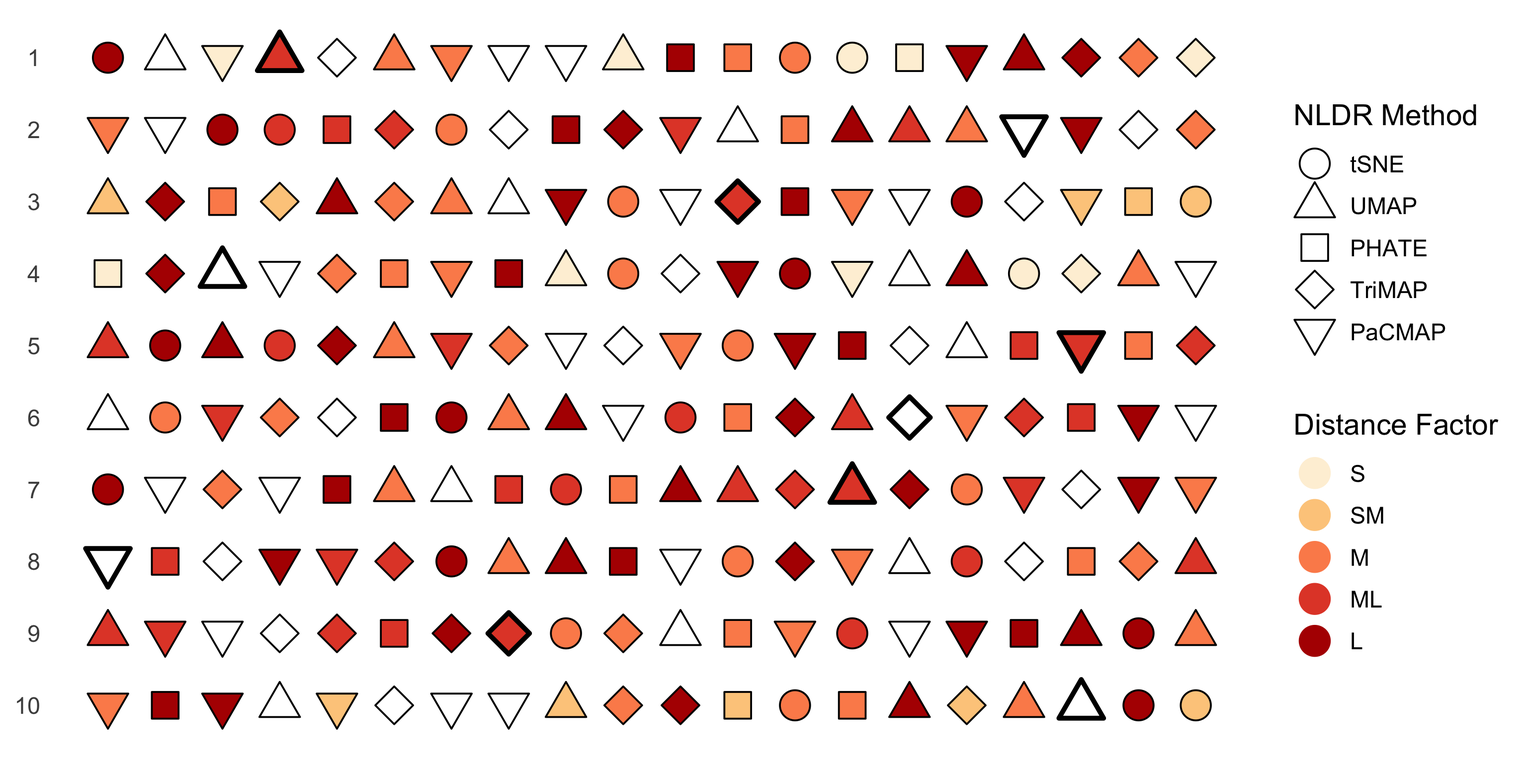
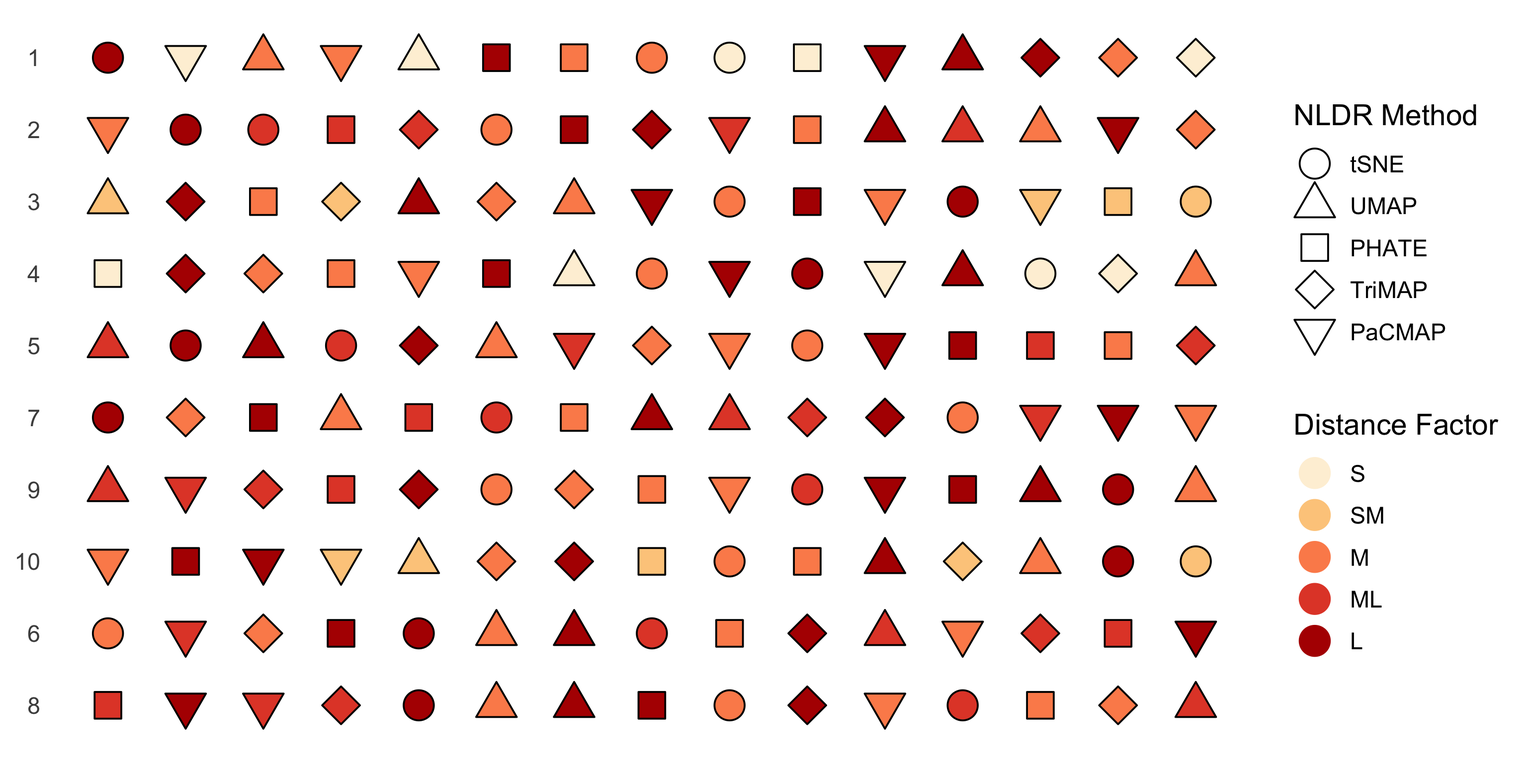
Updated the design only with the SAME

diff --git a/_book/chapters/05-chap5.html b/_book/chapters/05-chap5.html
@@ -302,7 +302,7 @@ window.Quarto = {
 <p>Nonlinear transformations allow for multiple shape-varying clusters to be represented in a single <span class="math inline">2\text{-}D</span> layout. In contrast, classical linear projection will often require multiple projections to show multiple clusters. <a href="#fig-nldr-layouts" class="quarto-xref">Figure&nbsp;<span>5.1</span></a> illustrates this: a1-a4 show linear projections revealing three well-separated clusters, one spherical, one ribbon-like and one like a star-shaped pyramid. The NLDR layout (left) is generated using tSNE has a mostly reasonable display of the three clusters in a single view, although it struggles with the star pyramid. It does place the clusters very close to each other which does not reflect the large separation in the high-dimensional space.</p>
 <div class="cell" data-layout-align="center">
 <div class="cell-output-display">
-<div id="fig-nldr-layouts" class="quarto-float quarto-figure quarto-figure-center anchored" alt="Multi-panel figure comparing a 2-D NLDR layout with multiple linear projections of the same 4-D data. The left panel shows a 2-D t-SNE layout with abstract horizontal and vertical axes representing embedding dimensions, each spanning a roughly symmetric range around zero. Points are colored or symbol-coded to indicate three underlying data structures. One group forms a compact, approximately spherical cluster. A second group forms a long, curved, ribbon-like band. A third group forms a star-shaped, pyramid-like structure with multiple arms radiating outward from a central region; in the tSNE layout, this structure appears split into several smaller, spatially separated point groups. The four right-hand panels (labeled a1–a4) show different 2-D linear projections of the same 4-D data, as produced by a tour. Each panel uses horizontal and vertical axes corresponding to different linear combinations of the original four variables, with numeric scales varying across projections but remaining continuous. In each projection, the same three data structures are visible: the spherical cluster appears compact, the curvilinear structure appears as a bent or elongated band whose orientation changes across projections, and the star-shaped pyramid appears as a single connected structure whose shape and orientation vary but remain coherent across all four views." data-fig-pos="!ht" data-fig-align="center">
+<div id="fig-nldr-layouts" class="quarto-float quarto-figure quarto-figure-center anchored" data-fig-align="center" data-fig-pos="!ht" alt="Multi-panel figure comparing a 2-D NLDR layout with multiple linear projections of the same 4-D data. The left panel shows a 2-D t-SNE layout with abstract horizontal and vertical axes representing embedding dimensions, each spanning a roughly symmetric range around zero. Points are colored or symbol-coded to indicate three underlying data structures. One group forms a compact, approximately spherical cluster. A second group forms a long, curved, ribbon-like band. A third group forms a star-shaped, pyramid-like structure with multiple arms radiating outward from a central region; in the tSNE layout, this structure appears split into several smaller, spatially separated point groups. The four right-hand panels (labeled a1–a4) show different 2-D linear projections of the same 4-D data, as produced by a tour. Each panel uses horizontal and vertical axes corresponding to different linear combinations of the original four variables, with numeric scales varying across projections but remaining continuous. In each projection, the same three data structures are visible: the spherical cluster appears compact, the curvilinear structure appears as a bent or elongated band whose orientation changes across projections, and the star-shaped pyramid appears as a single connected structure whose shape and orientation vary but remain coherent across all four views.">
 <figure class="quarto-float quarto-float-fig figure"><div aria-describedby="fig-nldr-layouts-caption-0ceaefa1-69ba-4598-a22c-09a6ac19f8ca">
 <img src="05-chap5_files/figure-html/fig-nldr-layouts-1.png" class="img-fluid quarto-figure quarto-figure-center figure-img" style="width:100.0%" data-fig-pos="!ht" alt="Multi-panel figure comparing a 2-D NLDR layout with multiple linear projections of the same 4-D data. The left panel shows a 2-D t-SNE layout with abstract horizontal and vertical axes representing embedding dimensions, each spanning a roughly symmetric range around zero. Points are colored or symbol-coded to indicate three underlying data structures. One group forms a compact, approximately spherical cluster. A second group forms a long, curved, ribbon-like band. A third group forms a star-shaped, pyramid-like structure with multiple arms radiating outward from a central region; in the tSNE layout, this structure appears split into several smaller, spatially separated point groups. The four right-hand panels (labeled a1–a4) show different 2-D linear projections of the same 4-D data, as produced by a tour. Each panel uses horizontal and vertical axes corresponding to different linear combinations of the original four variables, with numeric scales varying across projections but remaining continuous. In each projection, the same three data structures are visible: the spherical cluster appears compact, the curvilinear structure appears as a bent or elongated band whose orientation changes across projections, and the star-shaped pyramid appears as a single connected structure whose shape and orientation vary but remain coherent across all four views.">
 </div>
@@ -419,7 +419,7 @@ Figure&nbsp;5.2: Experiment design for ten subjects. Shapes represent NLDR metho
 <p>which captures the closest proximity between any two clusters.</p>
 <div class="cell" data-layout-align="center">
 <div class="cell-output-display">
-<div id="fig-dist-metrics" class="quarto-float quarto-figure quarto-figure-center anchored" alt="Two-panel figure showing the distribution of cluster separation metrics across categorical distance scale factors. Panel (a) displays a quasi-random scatter plot of the scaled between-to-within (BW) ratio. The horizontal axis lists five categorical distance scale factors—small (S), small–medium (SM), medium (M), medium–large (ML), and large (L) arranged from left to right. The vertical axis shows BW ratio values on a continuous numeric scale increasing upward. For each scale factor, multiple points are plotted with slight horizontal jitter, forming vertical bands that represent the distribution of BW ratios under that condition. The point clouds shift progressively upward from S to L, indicating larger BW ratios at higher distance scales. Panel (b) shows a similar quasi-random scatter plot for the exponential scaled minimum inter-cluster distance. The horizontal axis again displays the five distance scale factors (S to L), and the vertical axis shows minimum distance values on a continuous scale. Points are jittered horizontally within each category, producing vertical distributions whose central tendency increases from left to right." data-fig-align="center">
+<div id="fig-dist-metrics" class="quarto-float quarto-figure quarto-figure-center anchored" data-fig-align="center" alt="Two-panel figure showing the distribution of cluster separation metrics across categorical distance scale factors. Panel (a) displays a quasi-random scatter plot of the scaled between-to-within (BW) ratio. The horizontal axis lists five categorical distance scale factors—small (S), small–medium (SM), medium (M), medium–large (ML), and large (L) arranged from left to right. The vertical axis shows BW ratio values on a continuous numeric scale increasing upward. For each scale factor, multiple points are plotted with slight horizontal jitter, forming vertical bands that represent the distribution of BW ratios under that condition. The point clouds shift progressively upward from S to L, indicating larger BW ratios at higher distance scales. Panel (b) shows a similar quasi-random scatter plot for the exponential scaled minimum inter-cluster distance. The horizontal axis again displays the five distance scale factors (S to L), and the vertical axis shows minimum distance values on a continuous scale. Points are jittered horizontally within each category, producing vertical distributions whose central tendency increases from left to right.">
 <figure class="quarto-float quarto-float-fig figure"><div aria-describedby="fig-dist-metrics-caption-0ceaefa1-69ba-4598-a22c-09a6ac19f8ca">
 <img src="05-chap5_files/figure-html/fig-dist-metrics-1.png" class="img-fluid quarto-figure quarto-figure-center figure-img" style="width:100.0%" alt="Two-panel figure showing the distribution of cluster separation metrics across categorical distance scale factors. Panel (a) displays a quasi-random scatter plot of the scaled between-to-within (BW) ratio. The horizontal axis lists five categorical distance scale factors—small (S), small–medium (SM), medium (M), medium–large (ML), and large (L) arranged from left to right. The vertical axis shows BW ratio values on a continuous numeric scale increasing upward. For each scale factor, multiple points are plotted with slight horizontal jitter, forming vertical bands that represent the distribution of BW ratios under that condition. The point clouds shift progressively upward from S to L, indicating larger BW ratios at higher distance scales. Panel (b) shows a similar quasi-random scatter plot for the exponential scaled minimum inter-cluster distance. The horizontal axis again displays the five distance scale factors (S to L), and the vertical axis shows minimum distance values on a continuous scale. Points are jittered horizontally within each category, producing vertical distributions whose central tendency increases from left to right.">
 </div>
@@ -512,7 +512,7 @@ Table&nbsp;5.1: Estimated trends of correct identification probability with resp
 </div>
 <div class="cell" data-layout-align="center">
 <div class="cell-output-display">
-<div id="fig-glmm" class="quarto-float quarto-figure quarto-figure-center anchored" alt="Multi-panel figure showing the relationship between cluster separation and identification accuracy for five NLDR methods. In the left panel, a line plot displays model-based estimated probabilities of correct identification as a function of the scaled between–within (BW) ratio. The horizontal axis represents the scaled BW ratio, increasing from low to high cluster separability, and the vertical axis shows predicted probability of correct identification, ranging from 0 to 1. Five colored lines correspond to UMAP, PaCMAP, TriMAP, tSNE, and PHATE. Each line is surrounded by a shaded band indicating a 95% confidence interval around the estimate. The right side of the figure contains separate panels for each NLDR method. In each panel, the horizontal axis again shows the scaled BW ratio and the vertical axis shows the proportion of correct identifications. Black points represent observed proportions at different BW ratio values, and a smooth colored curve overlays the points, representing the fitted logistic regression model for that method." data-fig-pos="!ht" data-fig-align="center">
+<div id="fig-glmm" class="quarto-float quarto-figure quarto-figure-center anchored" data-fig-align="center" data-fig-pos="!ht" alt="Multi-panel figure showing the relationship between cluster separation and identification accuracy for five NLDR methods. In the left panel, a line plot displays model-based estimated probabilities of correct identification as a function of the scaled between–within (BW) ratio. The horizontal axis represents the scaled BW ratio, increasing from low to high cluster separability, and the vertical axis shows predicted probability of correct identification, ranging from 0 to 1. Five colored lines correspond to UMAP, PaCMAP, TriMAP, tSNE, and PHATE. Each line is surrounded by a shaded band indicating a 95% confidence interval around the estimate. The right side of the figure contains separate panels for each NLDR method. In each panel, the horizontal axis again shows the scaled BW ratio and the vertical axis shows the proportion of correct identifications. Black points represent observed proportions at different BW ratio values, and a smooth colored curve overlays the points, representing the fitted logistic regression model for that method.">
 <figure class="quarto-float quarto-float-fig figure"><div aria-describedby="fig-glmm-caption-0ceaefa1-69ba-4598-a22c-09a6ac19f8ca">
 <img src="05-chap5_files/figure-html/fig-glmm-1.png" class="img-fluid quarto-figure quarto-figure-center figure-img" style="width:100.0%" data-fig-pos="!ht" alt="Multi-panel figure showing the relationship between cluster separation and identification accuracy for five NLDR methods. In the left panel, a line plot displays model-based estimated probabilities of correct identification as a function of the scaled between–within (BW) ratio. The horizontal axis represents the scaled BW ratio, increasing from low to high cluster separability, and the vertical axis shows predicted probability of correct identification, ranging from 0 to 1. Five colored lines correspond to UMAP, PaCMAP, TriMAP, tSNE, and PHATE. Each line is surrounded by a shaded band indicating a 95% confidence interval around the estimate. The right side of the figure contains separate panels for each NLDR method. In each panel, the horizontal axis again shows the scaled BW ratio and the vertical axis shows the proportion of correct identifications. Black points represent observed proportions at different BW ratio values, and a smooth colored curve overlays the points, representing the fitted logistic regression model for that method.">
 </div>
@@ -588,7 +588,7 @@ Table&nbsp;5.2: Estimated trends of correct identification probability with resp
 </div>
 <div class="cell" data-layout-align="center">
 <div class="cell-output-display">
-<div id="fig-glmm-min" class="quarto-float quarto-figure quarto-figure-center anchored" alt="A multi-panel figure showing the relationship between cluster separation and identification accuracy for five NLDR methods. The left panel is a line plot of model-based estimated probabilities of correct cluster identification. The horizontal axis represents exp(scaled minimum distance), increasing from low to high cluster separation, and the vertical axis shows predicted probability of correct identification, ranging from 0 to 1. Five colored curves correspond to UMAP, tSNE, PHATE, PaCMAP, and TriMAP, each surrounded by a shaded 95% confidence interval band. The right side of the figure contains separate panels for each NLDR method. In each panel, the horizontal axis again shows exp(scaled minimum distance) and the vertical axis shows the proportion of correct identifications. Black points represent observed proportions at different separation levels, and a smooth colored curve overlays the points, showing the fitted logistic regression model for that method." data-fig-pos="!ht" data-fig-align="center">
+<div id="fig-glmm-min" class="quarto-float quarto-figure quarto-figure-center anchored" data-fig-align="center" data-fig-pos="!ht" alt="A multi-panel figure showing the relationship between cluster separation and identification accuracy for five NLDR methods. The left panel is a line plot of model-based estimated probabilities of correct cluster identification. The horizontal axis represents exp(scaled minimum distance), increasing from low to high cluster separation, and the vertical axis shows predicted probability of correct identification, ranging from 0 to 1. Five colored curves correspond to UMAP, tSNE, PHATE, PaCMAP, and TriMAP, each surrounded by a shaded 95% confidence interval band. The right side of the figure contains separate panels for each NLDR method. In each panel, the horizontal axis again shows exp(scaled minimum distance) and the vertical axis shows the proportion of correct identifications. Black points represent observed proportions at different separation levels, and a smooth colored curve overlays the points, showing the fitted logistic regression model for that method.">
 <figure class="quarto-float quarto-float-fig figure"><div aria-describedby="fig-glmm-min-caption-0ceaefa1-69ba-4598-a22c-09a6ac19f8ca">
 <img src="05-chap5_files/figure-html/fig-glmm-min-1.png" class="img-fluid quarto-figure quarto-figure-center figure-img" style="width:100.0%" data-fig-pos="!ht" alt="A multi-panel figure showing the relationship between cluster separation and identification accuracy for five NLDR methods. The left panel is a line plot of model-based estimated probabilities of correct cluster identification. The horizontal axis represents exp(scaled minimum distance), increasing from low to high cluster separation, and the vertical axis shows predicted probability of correct identification, ranging from 0 to 1. Five colored curves correspond to UMAP, tSNE, PHATE, PaCMAP, and TriMAP, each surrounded by a shaded 95% confidence interval band. The right side of the figure contains separate panels for each NLDR method. In each panel, the horizontal axis again shows exp(scaled minimum distance) and the vertical axis shows the proportion of correct identifications. Black points represent observed proportions at different separation levels, and a smooth colored curve overlays the points, showing the fitted logistic regression model for that method.">
 </div>
@@ -608,7 +608,7 @@ Figure&nbsp;5.5: Estimated probability of correct identification as a function o
 <p>Another common source of misidentification comes from uneven point density. In some of our data structures, density is an important feature of the shape in high dimensions, but it is not reliably preserved in the NLDR layouts. For example, in the nonlinear hyperbolic structure (<a href="#fig-three12-miss" class="quarto-xref">Figure&nbsp;<span>5.7</span></a>), one corner is clearly denser in high dimensions, yet this feature is not easy to identify in either tSNE or UMAP layouts. Similarly, the tip of the star-shaped pyramid is densely populated in high dimensions (<a href="#fig-three07-miss" class="quarto-xref">Figure&nbsp;<span>5.6</span></a>), but this density cue is often lost in the projections; especially in tSNE, where the structure is further distorted or fragmented. When these density cues are weakened or misplaced, participants lose important visual signals needed to recognize the underlying structure, increasing the chance of misidentification.</p>
 <div class="cell" data-layout-align="center">
 <div class="cell-output-display">
-<div id="fig-three07-miss" class="quarto-float quarto-figure quarto-figure-center anchored" alt="A multi-panel figure comparing NLDR layouts and linear projections of the same 4-D dataset, labelled three_clust_07. The data consist of three geometric structures: a curved hyperbolic band, a rounded hemispherical cluster, and a triangular pyramid-shaped cluster. The left half of the figure shows four 2-D linear projections arranged in two rows. Panels (a1) and (a2) display two fixed 2-D projections under small cluster separation, while panels (b1) and (b2) show the same projections under large cluster separation. For each NLDR layout, the proportion of correct identifications for the corresponding method and distance factor is reported in the top-right corner of the plot. In the small-separation projections, points from the three structures overlap substantially, with the curved and rounded components intermingling. In the large-separation projections, the three structures are more spatially separated, making the curved hyperbolic band, hemispherical cluster, and pyramid-shaped cluster more distinguishable. The right side of the figure shows corresponding 2-D NLDR layouts produced by tSNE and UMAP for the same small and large separation settings. In the small-separation layouts, both methods display overlapping point clouds with limited visual separation between structures. In the large-separation layouts, UMAP produces smoother, more continuous point arrangements that follow the curved shape of the hyperbolic structure and increase spacing between clusters, while tSNE shows a more fragmented layout with bends, breaks, and irregular gaps in the curved structure." data-fig-align="center">
+<div id="fig-three07-miss" class="quarto-float quarto-figure quarto-figure-center anchored" data-fig-align="center" alt="A multi-panel figure comparing NLDR layouts and linear projections of the same 4-D dataset, labelled three_clust_07. The data consist of three geometric structures: a curved hyperbolic band, a rounded hemispherical cluster, and a triangular pyramid-shaped cluster. The left half of the figure shows four 2-D linear projections arranged in two rows. Panels (a1) and (a2) display two fixed 2-D projections under small cluster separation, while panels (b1) and (b2) show the same projections under large cluster separation. For each NLDR layout, the proportion of correct identifications for the corresponding method and distance factor is reported in the top-right corner of the plot. In the small-separation projections, points from the three structures overlap substantially, with the curved and rounded components intermingling. In the large-separation projections, the three structures are more spatially separated, making the curved hyperbolic band, hemispherical cluster, and pyramid-shaped cluster more distinguishable. The right side of the figure shows corresponding 2-D NLDR layouts produced by tSNE and UMAP for the same small and large separation settings. In the small-separation layouts, both methods display overlapping point clouds with limited visual separation between structures. In the large-separation layouts, UMAP produces smoother, more continuous point arrangements that follow the curved shape of the hyperbolic structure and increase spacing between clusters, while tSNE shows a more fragmented layout with bends, breaks, and irregular gaps in the curved structure.">
 <figure class="quarto-float quarto-float-fig figure"><div aria-describedby="fig-three07-miss-caption-0ceaefa1-69ba-4598-a22c-09a6ac19f8ca">
 <img src="05-chap5_files/figure-html/fig-three07-miss-1.png" class="img-fluid quarto-figure quarto-figure-center figure-img" style="width:100.0%" alt="A multi-panel figure comparing NLDR layouts and linear projections of the same 4-D dataset, labelled three_clust_07. The data consist of three geometric structures: a curved hyperbolic band, a rounded hemispherical cluster, and a triangular pyramid-shaped cluster. The left half of the figure shows four 2-D linear projections arranged in two rows. Panels (a1) and (a2) display two fixed 2-D projections under small cluster separation, while panels (b1) and (b2) show the same projections under large cluster separation. For each NLDR layout, the proportion of correct identifications for the corresponding method and distance factor is reported in the top-right corner of the plot. In the small-separation projections, points from the three structures overlap substantially, with the curved and rounded components intermingling. In the large-separation projections, the three structures are more spatially separated, making the curved hyperbolic band, hemispherical cluster, and pyramid-shaped cluster more distinguishable. The right side of the figure shows corresponding 2-D NLDR layouts produced by tSNE and UMAP for the same small and large separation settings. In the small-separation layouts, both methods display overlapping point clouds with limited visual separation between structures. In the large-separation layouts, UMAP produces smoother, more continuous point arrangements that follow the curved shape of the hyperbolic structure and increase spacing between clusters, while tSNE shows a more fragmented layout with bends, breaks, and irregular gaps in the curved structure.">
 </div>
@@ -620,7 +620,7 @@ Figure&nbsp;5.6: tSNE and UMAP layouts and <span class="math inline">2\text{-}D<
 </div>
 <div class="cell" data-layout-align="center">
 <div class="cell-output-display">
-<div id="fig-three12-miss" class="quarto-float quarto-figure quarto-figure-center anchored" alt="A multi-panel figure comparing linear projections and NLDR layouts of the same 4-D dataset, labelled three_clust_12. The data consist of three geometric structures: an elongated S-curve, a rounded hemispherical cluster, and a filled hexagonal pyramid. The left portion of the figure shows four fixed 2-D linear projections arranged in two rows. Panels (a1) and (a2) display two projections under small cluster separation, where points from the three structures overlap substantially and the curved and rounded components are difficult to distinguish. Panels (b1) and (b2) show the same projections under large cluster separation, where the S-curve, hemisphere, and pyramid become more spatially separated and visually distinct. The right portion of the figure shows the corresponding 2-D NLDR layouts produced by tSNE and UMAP for the same small and large separation settings. For each NLDR layout, the proportion of correct identifications for the corresponding method and distance factor is reported in the top-right corner of the plot. At small separation, both methods show overlapping point clouds with limited separation between structures. At large separation, the UMAP layout displays a smooth, elongated S-shaped structure alongside a compact hemispherical cluster and a coherent pyramidal cluster. In contrast, the tSNE layout shows these structures broken into multiple disconnected or irregularly shaped groups." data-fig-align="center">
+<div id="fig-three12-miss" class="quarto-float quarto-figure quarto-figure-center anchored" data-fig-align="center" alt="A multi-panel figure comparing linear projections and NLDR layouts of the same 4-D dataset, labelled three_clust_12. The data consist of three geometric structures: an elongated S-curve, a rounded hemispherical cluster, and a filled hexagonal pyramid. The left portion of the figure shows four fixed 2-D linear projections arranged in two rows. Panels (a1) and (a2) display two projections under small cluster separation, where points from the three structures overlap substantially and the curved and rounded components are difficult to distinguish. Panels (b1) and (b2) show the same projections under large cluster separation, where the S-curve, hemisphere, and pyramid become more spatially separated and visually distinct. The right portion of the figure shows the corresponding 2-D NLDR layouts produced by tSNE and UMAP for the same small and large separation settings. For each NLDR layout, the proportion of correct identifications for the corresponding method and distance factor is reported in the top-right corner of the plot. At small separation, both methods show overlapping point clouds with limited separation between structures. At large separation, the UMAP layout displays a smooth, elongated S-shaped structure alongside a compact hemispherical cluster and a coherent pyramidal cluster. In contrast, the tSNE layout shows these structures broken into multiple disconnected or irregularly shaped groups.">
 <figure class="quarto-float quarto-float-fig figure"><div aria-describedby="fig-three12-miss-caption-0ceaefa1-69ba-4598-a22c-09a6ac19f8ca">
 <img src="05-chap5_files/figure-html/fig-three12-miss-1.png" class="img-fluid quarto-figure quarto-figure-center figure-img" style="width:100.0%" alt="A multi-panel figure comparing linear projections and NLDR layouts of the same 4-D dataset, labelled three_clust_12. The data consist of three geometric structures: an elongated S-curve, a rounded hemispherical cluster, and a filled hexagonal pyramid. The left portion of the figure shows four fixed 2-D linear projections arranged in two rows. Panels (a1) and (a2) display two projections under small cluster separation, where points from the three structures overlap substantially and the curved and rounded components are difficult to distinguish. Panels (b1) and (b2) show the same projections under large cluster separation, where the S-curve, hemisphere, and pyramid become more spatially separated and visually distinct. The right portion of the figure shows the corresponding 2-D NLDR layouts produced by tSNE and UMAP for the same small and large separation settings. For each NLDR layout, the proportion of correct identifications for the corresponding method and distance factor is reported in the top-right corner of the plot. At small separation, both methods show overlapping point clouds with limited separation between structures. At large separation, the UMAP layout displays a smooth, elongated S-shaped structure alongside a compact hemispherical cluster and a coherent pyramidal cluster. In contrast, the tSNE layout shows these structures broken into multiple disconnected or irregularly shaped groups.">
 </div>
